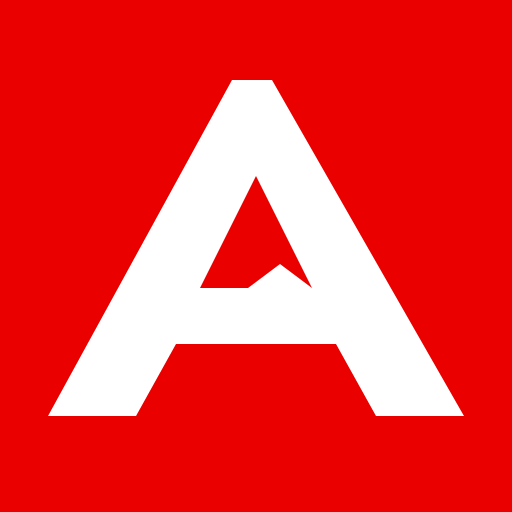
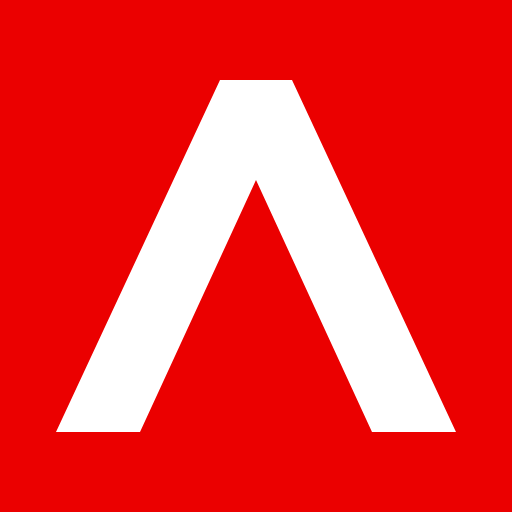
Draw the Alpina peak from one crossbar-free letterform

diff --git a/web/principles.tsx b/web/principles.tsx
@@ -1,7 +1,7 @@
 import { PageRegion } from 'alpina-ui'
 import type { ReactNode } from 'react'
 import {
-  Badge, CurrencyCHF, Grid, GridItem, Separator, Stack, Table,
+  Avatar, Badge, CurrencyCHF, Grid, GridItem, Separator, Stack, Table,
   TableBody, TableCell, TableHead, TableHeader, TableRow, TextLink, Typography,
 } from 'alpina-ui'
 import { Footer, Masthead, PageHeading } from './pages.js'
@@ -105,6 +105,10 @@ export function Principles() {
     <Masthead current="principles" />
     <PageRegion as="main" id="content" tabIndex={-1}>
       <PageHeading title="Design principles" summary="Eight decisions from a working Swiss interface. Compare each pair using the same components and the same information." />
+      <Grid as="section" width="site" space="compact" aria-labelledby="alpina-mark">
+        <GridItem medium={4} large={4}><Typography id="alpina-mark" as="h2" variant="heading">The Alpina mark</Typography></GridItem>
+        <GridItem medium={4} large={7}><Stack direction="row" align="center" wrap={false}><Avatar decorative name="Alpina" size="lg" src="/assets/logo.svg" /><Typography measure="narrow">A white A without a crossbar, shaped like a peak on a red square. Its flat apex and open centre keep the form legible at the size of a browser icon.</Typography></Stack></GridItem>
+      </Grid>
       {rules.map(({ id, title, note, source, sample }) => <Grid as="section" width="site" space="compact" aria-labelledby={id} key={id}>
         <GridItem><Separator weight="section" /></GridItem>
         <GridItem medium={8} large={4}><Stack gap={3} align="start">

diff --git a/README.md b/README.md
@@ -1,5 +1,5 @@
 <!-- Generated from docs/readme.template.md and the public catalog by scripts/readme.mjs. -->
-<img src="web/assets/logo.svg" alt="" width="64" height="64">
+<img src="web/assets/logo.svg" alt="A white A without a crossbar, shaped like a peak on a red square." width="64" height="64">
 
 # Alpina UI
 

diff --git a/docs/readme.template.md b/docs/readme.template.md
@@ -1,4 +1,4 @@
-<img src="web/assets/logo.svg" alt="" width="64" height="64">
+<img src="web/assets/logo.svg" alt="A white A without a crossbar, shaped like a peak on a red square." width="64" height="64">
 
 # Alpina UI
 
